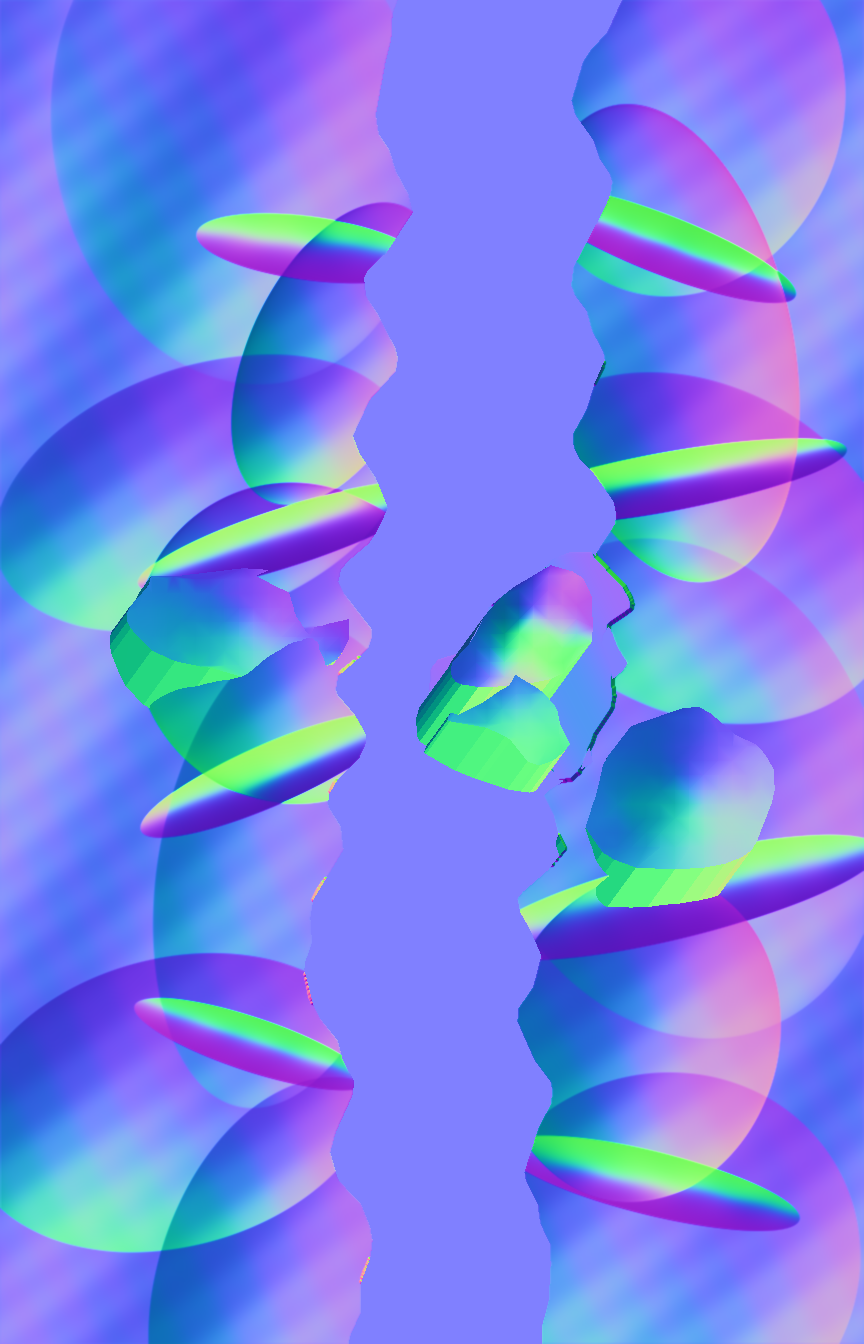
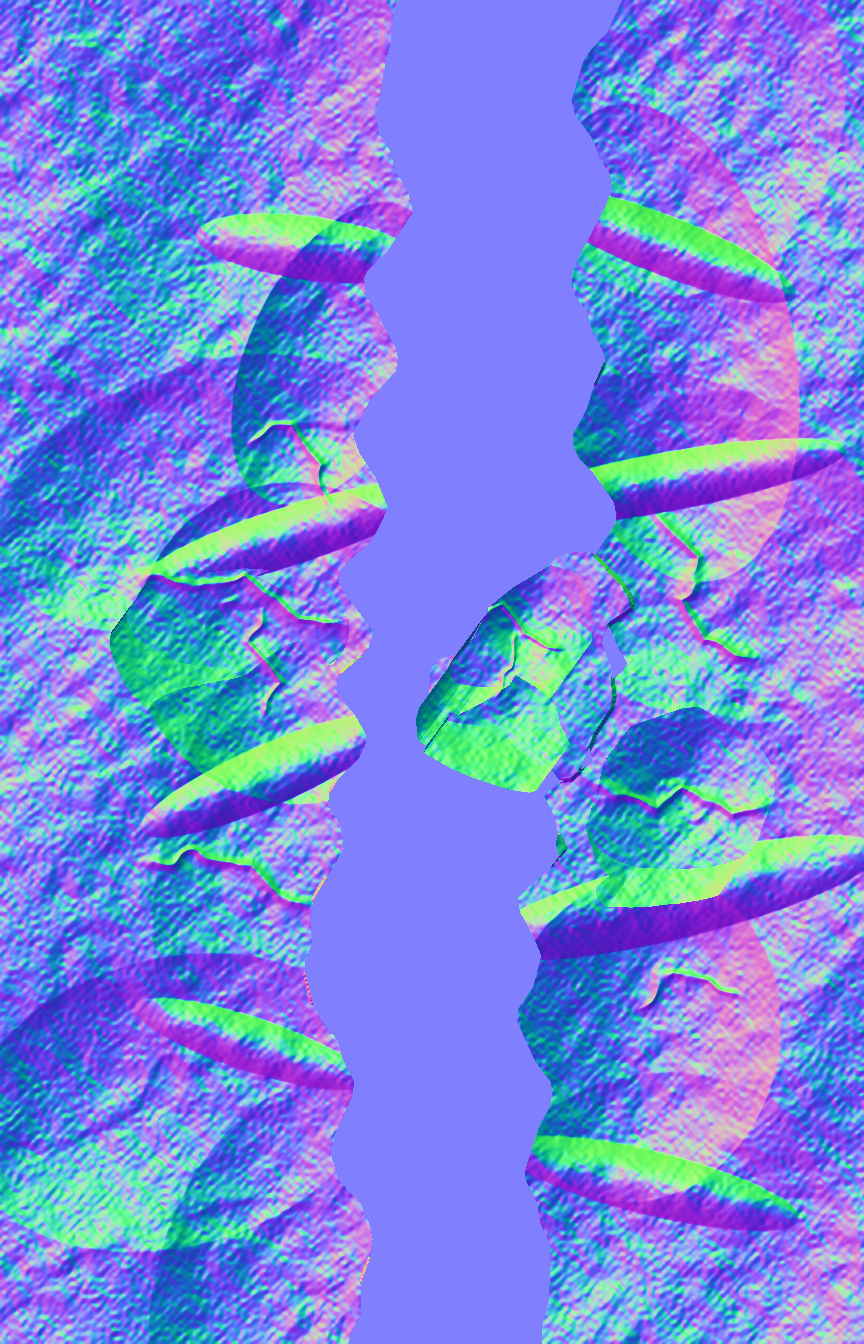
study: preserve geological relief rough pass and named cave checkpoints

diff --git a/scripts/buildCaveVersions.js b/scripts/buildCaveVersions.js
@@ -1,0 +1,56 @@
+const fs=require('fs'),path=require('path'),assert=require('assert/strict');
+const {execFileSync}=require('child_process');
+const root=path.resolve(__dirname,'..');
+const archive=path.join(root,'node_modules/.cache/cave-versions');
+const manifest=JSON.parse(fs.readFileSync(path.join(root,'design/cave-room/versions.json'),'utf8'));
+const git=(...args)=>execFileSync('git',args,{cwd:root,maxBuffer:80*1024*1024});
+const escape=s=>String(s).replace(/[&<>"']/g,c=>({'&':'&amp;','<':'&lt;','>':'&gt;','"':'&quot;',"'":'&#39;'}[c]));
+function list(){return manifest.versions.map(v=>({...v,commit:git('rev-parse','--verify',v.ref+'^{commit}').toString().trim()}));}
+function build(v){
+ assert(/^[a-z0-9-]+$/.test(v.id));
+ const dir=path.join(archive,v.id),source=path.join(dir,'source');
+ fs.mkdirSync(dir,{recursive:true});
+ const stamp=path.join(dir,'snapshot.json');
+ if(fs.existsSync(stamp))assert.equal(JSON.parse(fs.readFileSync(stamp)).commit,v.commit,'Never overwrite an old version ID with different content');
+ else {
+  // Only related tracked runtime/study files, never personal configuration or .git.
+  const paths=['game.ts','src','images','audio','scripts/buildGamePreview.js','scripts/gamePreview.html'];
+  if(v.mode==='sculpt')paths.push('design/cave-room/sculpt');
+  for(const p of paths)git('cat-file','-e',v.commit+':'+p);
+  fs.mkdirSync(source,{recursive:true});
+  const bytes=git('archive','--format=tar',v.commit,'--',...paths);
+  execFileSync('tar',['-xf','-','-C',source],{input:bytes,maxBuffer:1024*1024});
+  fs.writeFileSync(stamp,JSON.stringify({id:v.id,ref:v.ref,commit:v.commit,scope:'Related Git-tracked runtime/study only; no branch switch, working tree reset or personal config'},null,2));
+ }
+ const args=[path.join(source,'scripts/buildGamePreview.js')];
+ if(v.mode==='sculpt')args.push('--sculpt');
+ execFileSync(process.execPath,args,{cwd:source,stdio:'pipe'});
+ const entry=path.join(source,v.mode==='sculpt'?'node_modules/.cache/cave-sculpt-study/live/game.html':'design/deeptape/game.html');
+ let html=fs.readFileSync(entry,'utf8');
+ const back=path.relative(path.dirname(entry),path.join(archive,'index.html')).split(path.sep).join('/');
+ const banner='<div style="position:relative;z-index:9;padding:12px;background:#16282e;color:#dde0cb;font:14px -apple-system,sans-serif">'+escape(v.title)+' · '+escape(v.ref)+' · '+v.commit.slice(0,7)+' · <a style="color:#b3d5c5" href="'+escape(back)+'">版本目录</a></div>';
+ html=html.replace(/<body([^>]*)>/,'<body$1>'+banner);
+ fs.writeFileSync(entry,html);
+ return {id:v.id,ref:v.ref,commit:v.commit,entry:path.relative(root,entry).split(path.sep).join('/')};
+}
+function board(versions){
+ fs.mkdirSync(archive,{recursive:true});
+ const cards=versions.map(v=>{
+  const report=path.join(archive,v.id,'snapshot.json');
+  const ready=fs.existsSync(report)&&JSON.parse(fs.readFileSync(report)).commit===v.commit;
+  const entry=v.id+'/source/'+(v.mode==='sculpt'?'node_modules/.cache/cave-sculpt-study/live/game.html':'design/deeptape/game.html');
+  return '<article><small>'+escape(v.ref)+' · '+v.commit.slice(0,7)+'</small><h2>'+escape(v.title)+'</h2><p>'+escape(v.note)+'</p>'+(ready?'<a href="'+entry+'">进入这一版实际游戏</a>':'<code>npm run cave:versions -- --build '+escape(v.id)+'</code>')+'</article>';
+ }).join('');
+ const html='<!doctype html><html lang="zh-CN"><head><meta charset="utf-8"><meta name="viewport" content="width=device-width,initial-scale=1"><title>洞穴版本档案</title><style>*{box-sizing:border-box}body{background:#111c23;color:#dfdfd3;font:15px -apple-system,BlinkMacSystemFont,"PingFang SC",sans-serif;line-height:1.7;margin:0}main{max-width:950px;margin:auto;padding:48px 24px}h1{font-size:30px}h2{font-size:21px}p,small{color:#aabcba}article{background:#192b32;padding:24px;border:1px solid #34505a;margin:20px 0;border-radius:5px}a{display:inline-block;color:#14302e;background:#b7cec1;padding:10px 16px;text-decoration:none;border-radius:3px}code{font:13px monospace;color:#c0cbaa}footer{margin-top:35px;color:#8da6a8;font-size:12px}</style></head><body><main><small>DEEPTAPE / PRESERVED CHECKPOINTS</small><h1>不同版本分别留住，随时回看。</h1><p>每版从命名Git回退点重建自己的源码、岩体资源和实际游戏入口。不是几个入口共用当前贴图，不切换当前工作分支，也不覆盖手机已跑通的基线。</p>'+cards+'<footer>这是本地版本档案，不自动推送远端。缓存可重建，固定Git标签才是正式回退锚点；手机性能与美术验收分开。</footer></main></body></html>';
+ fs.writeFileSync(path.join(archive,'index.html'),html);
+}
+function main(){
+ const versions=list(),args=process.argv.slice(2);
+ let ids=[];
+ if(args.includes('--all'))ids=versions.map(v=>v.id);
+ else if(args.includes('--build')){const i=args.indexOf('--build');assert(args[i+1],'--build requires an ID');ids=[args[i+1]];}
+ for(const id of ids){const v=versions.find(v=>v.id===id);assert(v,'Unknown version '+id);console.log(JSON.stringify(build(v),null,2));}
+ board(versions);console.log(JSON.stringify({versions:versions.map(v=>({id:v.id,ref:v.ref,commit:v.commit})),index:'node_modules/.cache/cave-versions/index.html'},null,2));
+}
+if(require.main===module)main();
+module.exports={list,build,board};

diff --git a/design/cave-room/sculpt/RenderCaveRock.ts b/design/cave-room/sculpt/RenderCaveRock.ts
@@ -101,7 +101,7 @@ void main(){
  vec3 viewDirection=normalize(vec3(-projection.x,-projection.y,1.));
  float spec=pow(max(0.,dot(n,normalize(l+viewDirection))),22.);
  spec*=smoothstep(0.,.12,lambert)*mix(.30,1.,ao);
- color+=vec3(.26,.33,.33)*spec*.09*ao*localVisibility;
+ color+=vec3(.26,.33,.33)*spec*.035*ao*localVisibility;
  float hit=beamDistance(theta/fov+.5);
  float reach=1.-smoothstep(hit+20.,hit+190.,length(delta));
  float incident=cone*reach*(1.-smoothstep(range*.25,range,length(delta)));

diff --git a/design/cave-room/sculpt/geology.py b/design/cave-room/sculpt/geology.py
@@ -1,0 +1,97 @@
+"""Geological relief, not a brightness pattern or per-pixel random normal.
+Returns physical screen-space depth displacement and intrinsic pigment only.
+The displacement is applied to every visible surface; normals use its derivative.
+"""
+import math
+import numpy as np
+from scipy.ndimage import gaussian_filter, map_coordinates
+
+
+def continuous_noise(shape, world_scale, seed, pixels_per_world):
+    rng=np.random.default_rng(seed)
+    h,w=shape
+    cell=max(3,world_scale*pixels_per_world)
+    gh,gw=math.ceil(h/cell)+3,math.ceil(w/cell)+3
+    field=rng.normal(0,1,(gh,gw))
+    yy,xx=np.mgrid[0:h,0:w].astype(float)
+    field=map_coordinates(field,[yy/cell+1,xx/cell+1],order=3,mode='reflect')
+    field-=field.mean()
+    return field/max(.1,field.std())
+
+
+def fissure(x,y,points,width,depth):
+    """Finite winding fractured slot with a tapered end, not endless painted lines."""
+    distance=np.full(x.shape,1e6)
+    length=sum(math.hypot(b[0]-a[0],b[1]-a[1]) for a,b in zip(points,points[1:]))
+    position=np.zeros(x.shape)
+    accumulated=0
+    for a,b in zip(points,points[1:]):
+        dx,dy=b[0]-a[0],b[1]-a[1]
+        seg=math.hypot(dx,dy)
+        t=np.clip(((x-a[0])*dx+(y-a[1])*dy)/(seg*seg),0,1)
+        d=np.hypot(x-a[0]-t*dx,y-a[1]-t*dy)
+        closer=d<distance
+        position[closer]=(accumulated+t[closer]*seg)/length
+        distance=np.minimum(distance,d)
+        accumulated+=seg
+    end=np.clip(np.minimum(position,1-position)*9,0,1)
+    width=width*(.62+.38*np.sin(position*11+.7)**2)
+    # Broad erosion into the shoulders, narrow deep core. Geometry supplies darkness.
+    shoulder=np.exp(-(distance/(width*2.8))**2)*depth*.27
+    core=np.exp(-(distance/width)**2)*depth*.73
+    return -(shoulder+core)*end
+
+
+def sculpt_relief(x,y,scale):
+    shape=x.shape
+    macro=continuous_noise(shape,47,182,scale)
+    middle=continuous_noise(shape,13,54,scale)
+    small=continuous_noise(shape,3.5,27,scale)
+    grain=continuous_noise(shape,1.25,75,scale)
+    wx=x+macro*5.5+middle*1.6
+    wy=y+macro*4+middle*1.8
+    # Unequal tilted strata, interrupted by fracture zones. No Voronoi stone tiling.
+    coordinate=wy*.052+wx*.020+macro*.45
+    band=np.sin(coordinate)+.31*np.sin(coordinate*2.23+.8)
+    strata=5.1*np.tanh(band*1.7)*( .60+.25*np.tanh(macro*.6))
+    relief=strata+middle*1.9+small*.68+grain*.16
+    cracks=[
+        ([[104,473],[166,488],[204,481],[246,513],[290,520]],3.2,13),
+        ([[225,508],[215,542],[233,568],[219,598]],2.3,10),
+        ([[116,726],[161,708],[207,719],[240,752],[270,757]],4.1,16),
+        ([[207,373],[253,361],[280,395],[275,428]],2.8,12),
+        ([[550,430],[574,459],[566,498],[592,537],[630,549]],3.8,17),
+        ([[494,652],[544,670],[568,657],[609,677],[644,663]],4.2,16),
+        ([[531,843],[568,815],[620,830]],3.1,12),
+        ([[399,515],[426,509],[439,530],[472,543]],2.1,9),
+        ([[433,529],[427,557],[404,574]],1.6,7),
+    ]
+    slots=np.zeros(shape)
+    for points,width,depth in cracks:
+        cut=fissure(wx,wy,points,width,depth)
+        slots=np.minimum(slots,cut)
+    relief+=slots
+    # Water-eroded local cavities, concentrated at broken seams instead of evenly dotted.
+    for cx,cy,rx,ry,depth in [(196,506,11,5,7),(225,549,7,12,8),(279,396,7,12,6),
+                             (557,654,13,6,9),(584,683,7,10,8),(605,535,6,9,7),
+                             (425,523,5,4,5),(454,542,4,7,5)]:
+        r=((wx-cx)/rx)**2+((wy-cy)/ry)**2
+        relief-=depth*np.exp(-r*1.5)
+    relief=gaussian_filter(relief,.42*scale)
+    # Darker deposits and ochre mineral chroma are intrinsic material, not fixed key light.
+    sediment=np.clip(-slots/20,0,.55)
+    pigment=np.stack([macro*.018+middle*.004,macro*.010+middle*.003,macro*.005+middle*.002],axis=2)
+    pigment-=sediment[:,:,None]*np.array([.033,.030,.021])
+    return relief,pigment,slots
+
+
+def displaced_normal(normal,displacement,scale,px,py):
+    """Exact normal differential under P(x,y,z)=(x+px*z,y+py*z)."""
+    dy,dx=np.gradient(displacement,1/scale)
+    view=normal[:,:,2]-px*normal[:,:,0]-py*normal[:,:,1]
+    n=normal.copy()
+    n[:,:,0]-=view*dx
+    n[:,:,1]-=view*dy
+    n[:,:,2]-=view*(px*dx+py*dy)
+    n/=np.maximum(1e-8,np.linalg.norm(n,axis=2))[:,:,None]
+    return n

diff --git a/design/cave-room/sculpt/bake.py b/design/cave-room/sculpt/bake.py
@@ -273,6 +273,17 @@ for ps, n, pigment, smooth, owner in triangles:
         normal_map[sl][take] = shading[take]
     material[sl][take] = pigment
 
+# Physical geological relief, applied to the same visible depth and normal differential.
+from geology import sculpt_relief, displaced_normal
+relief, mineral_pigment, fracture_depth = sculpt_relief(X,Y,S)
+relief *= mask
+relief_for_normal = relief.copy()
+relief_for_normal[~mask] = relief_for_normal[tuple(indices[:,~mask])]
+normal_map = displaced_normal(normal_map,relief_for_normal,S,PX,PY)
+normal_map[~mask] = [0,0,1]
+height[mask] += relief[mask]
+height[mask] = np.clip(height[mask],4,200)
+
 # AO is geometric cavity/nearby occlusion, stored separately from the neutral material.
 nearest_height = height.copy()
 nearest_height[~mask] = nearest_height[tuple(indices[:, ~mask])]
@@ -292,7 +303,7 @@ chroma=np.clip(paint/luminance[:,:,None]*.53,.38,.67)
 material=np.clip(material*.58+chroma*.42+tint,0,1)
 # Very restrained mineral wear, not an illuminated stone-pattern atlas.
 grain=(np.sin(X*.31+Y*.047)*np.sin(Y*.24-X*.017))*.007
-material=np.clip(material+grain[:,:,None],0,1)
+material=np.clip(material+mineral_pigment+grain[:,:,None],0,1)
 material[~mask] = 0
 
 
@@ -315,7 +326,10 @@ report = dict(outlineVertices=sum(map(len,shapes)), baselineVertices=sum(map(len
               heightPercentiles=np.percentile(height[mask],[1,10,50,90,99]).tolist(),
               normalZPercentiles=np.percentile(normal_map[:,:,2][mask],[10,50,90]).tolist(),
               albedo='restrained neutral pigment; no baked key light or painted stone blocks',
-              geometry='eroded continuous wall depth plus independently tilted 3D fractured slabs',
+              geometry='thick fractured slabs with finite fissures, unequal strata and eroded cavities',
+              revision='E02-geological-relief',
+              reliefRange=np.percentile(relief[mask],[1,10,50,90,99]).tolist(),
+              fissureSamples=int(np.count_nonzero((fracture_depth<-5)&mask)),
               limits='single visible-depth bake: not full runtime 3D or view-dependent disocclusion',
               bytes=sum(p.stat().st_size for p in OUT.glob('*.png')))
 (OUT/'report.json').write_text(json.dumps(report, indent=2))
